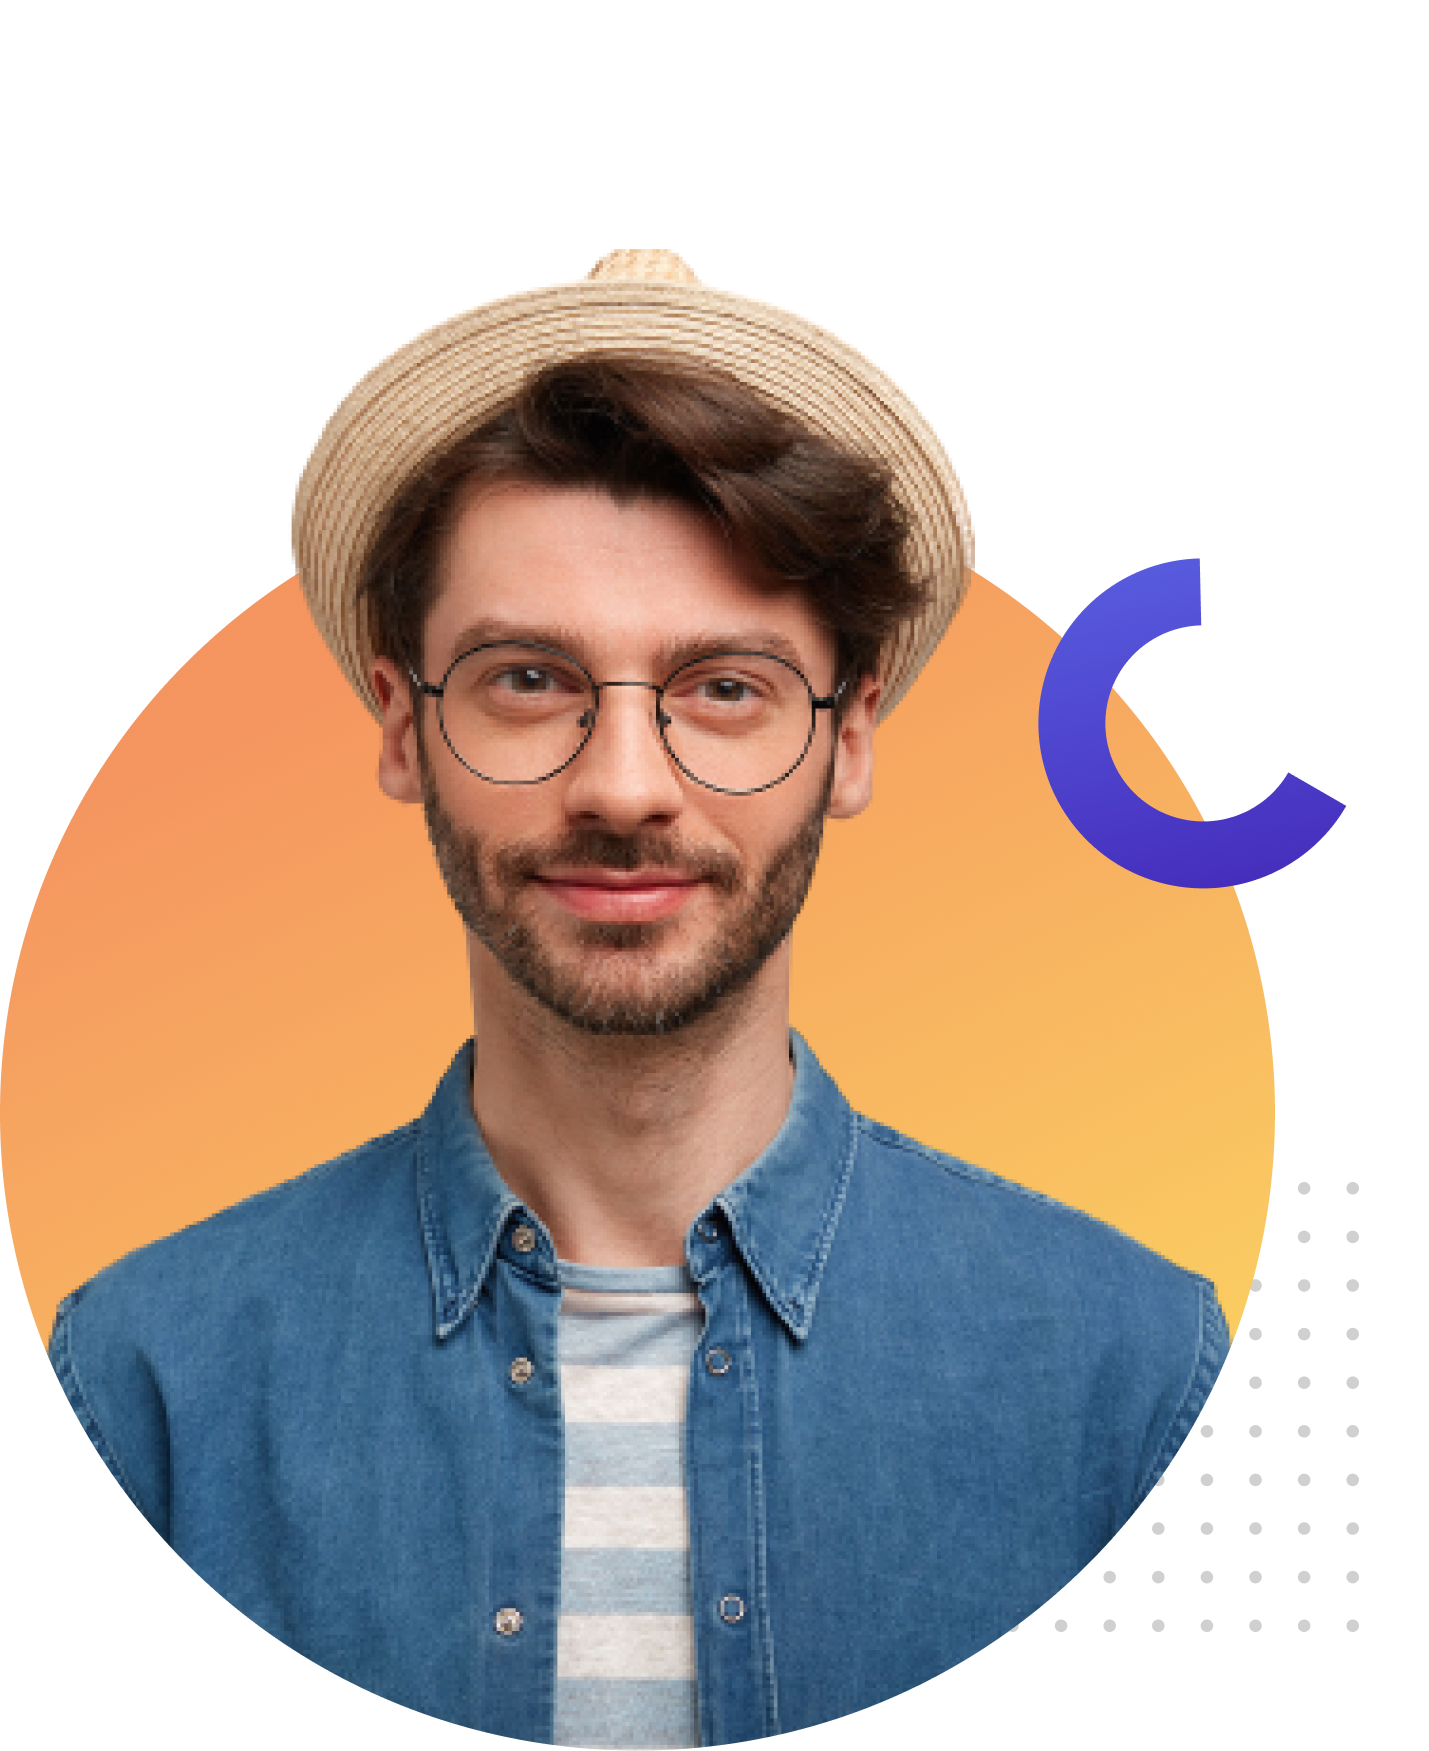
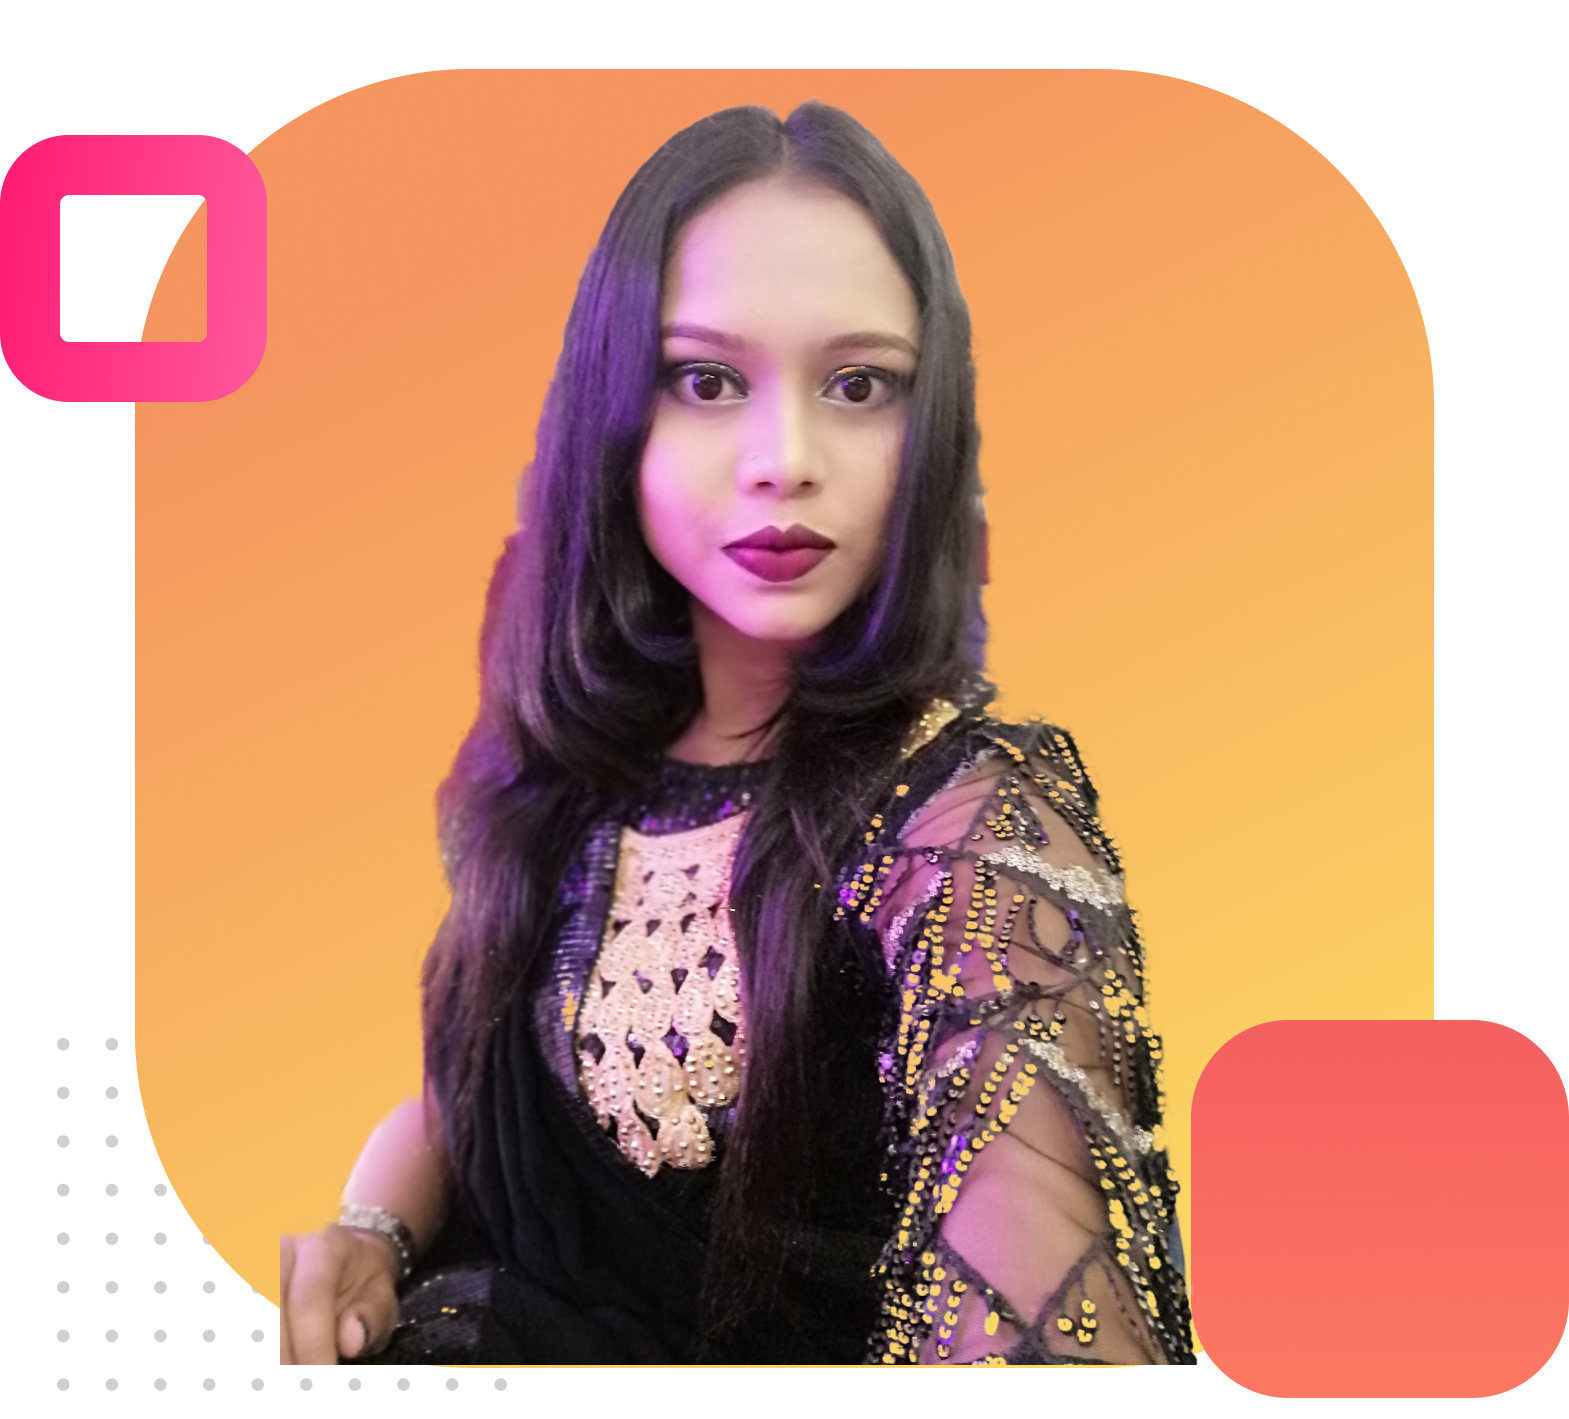
implemented full portfolio

diff --git a/index.html b/index.html
@@ -13,7 +13,7 @@
 <body>
     <!--First section start-->
     <section id="top-bar">
-        <div id="menu">
+        <div id="menu" class="text-right">
             <ul>
                 <li><a href="#">About</a></li>
                 <li><a href="#">Work</a></li>
@@ -27,50 +27,103 @@
     <!--Top-banner section start-->
     <section class="top-banner">
         <div class="half-width" id="heading">
-            <h1>HELLO, I'M <br/><span class="red-highlight">ROB DAVIDSON </span> </h1>
-            <p>A full stack allaround designer that placerat <br>in a massa consectetur</p>
+            <h1>HELLO, I'M <br/><span class="red-highlight">AIMINA ALI ELI </span> </h1>
+            <p class="gap_40">A full stack allaround designer that placerat <br>in a massa consectetur</p>
 
             <a class="link-button" target="_blank" href="https://web.programming-hero.com/">Hire Me</a>
         </div>
 
-        <div class="half-width">
-            <img src="images/pic1.png" alt="">
+        <div class="half-width text-center">
+            <img class="potrait" src="images/pic1.png" alt="">
         </div>
     </section>
 
     <!--About-area section start-->
     <section class="about-area">
         <div class="half-width">
-            <img src="images/pic2.png" alt="">
+            <img class="potrait" src="images/pic2.png" alt="">
         </div>
         <div class="half-width">
-            <h4>ABOUT</h4>
-            <p>Many times, readers will get distracted by readable text when looking at the layout of a page. Instead of using filler text that says “Insert content here,” Lorem Ipsum uses a normal distribution of letters, making it resemble standard English.</p>
-            <a class="link-button" target="_blank" href="https://www.linkedin.com/company/programminghero/">Download CV</a>
+            <h1>ABOUT</h4>
+                <p class="gap_40">Many times, readers will get distracted by readable text when looking at the layout of a page. Instead of using filler text that says “Insert content here,” Lorem Ipsum uses a normal distribution of letters, making it resemble standard
+                    English.
+                </p>
+                <a class="link-button" target="_blank" href="https://www.linkedin.com/company/programminghero/">
+                    <img src="icons/download_icon.png" width="16" /> Download CV
+                </a>
         </div>
     </section>
 
     <!--Lastset-area section start-->
     <section id="lastet-area">
         <div class="center">
-            <h3><span class="red-highlight">LASTET</span> WORKING PROJECT</h3>
+            <h1><span class="red-highlight">LATEST</span> WORKING PROJECT</h3>
         </div>
         <div id="portfolio">
             <div class="project">
-                <img id="gym-img" src="images/image 3.png">
+                <img class="project-img" src="images/image 3.png">
                 <h5>Power-x-gym (gym website)</h5>
                 <p>lorem ipsum is simply dummy text to the printing and typestring industry</p>
             </div>
             <div class="project">
-                <img id="gym-img" src="images/image 4.png">
+                <img class="project-img" src="images/image 4.png">
                 <h5>Creative Agency</h5>
                 <p>lorem ipsum is simply dummy text to the printing and typestring industry</p>
             </div>
             <div class="project">
-                <img id="gym-img" src="images/image 5.png">
+                <img class="project-img" src="images/image 5.png">
                 <h5>Hard Rock Music</h5>
                 <p>lorem ipsum is simply dummy text to the printing and typestring industry</p>
             </div>
+        </div>
+    </section>
+
+    <section id="services-area">
+        <div class="center">
+            <h1><span class="red-highlight">MY</span> SERVICES</h3>
+        </div>
+        <div id="services">
+            <div class="service text-center">
+                <img class="project-img" src="icons/website-design.png">
+                <h5>
+                    <a href="#">Website Design</a>
+                </h5>
+            </div>
+            <div class="service text-center">
+                <img class="project-img" src="icons/website-development.png">
+                <h5><a href="#">Web Development</a></h5>
+            </div>
+            <div class="service text-center">
+                <img class="project-img" src="icons/ecommerce-solution.png">
+                <h5><a href="#">eCommerce Solution</a></h5>
+            </div>
+            <div class="service text-center">
+                <img class="project-img" src="icons/logo-design.png">
+                <h5><a href="#">Logo Design</a></h5>
+            </div>
+        </div>
+    </section>
+
+    <!--Footer section start-->
+    <section>
+        <div id="blue-bg">
+            <div id="work-inq">
+                <h1>WORK INQUIRY</h1>
+            </div>
+            <div id="chat-btn">
+                <a class="link-button" target="_blank" href="https://web.programming-hero.com/">Let's Chat</a>
+            </div>
+
+        </div>
+        <div id="footer" class="text-center">
+            <h6>STAY CONNECTED</h6>
+            <h5>eli.aimina@gmail.com</h5>
+            <div id="icons">
+                <img src="icons/image 6.png">
+                <img src="icons/image 7.png">
+                <img src="icons/image 8.png">
+            </div>
+
         </div>
 
     </section>

diff --git a/style.css b/style.css
@@ -4,13 +4,31 @@ body {
     background-color: #fdfbfb;
 }
 
+.text-left {
+    text-align: left;
+}
+
+.text-right {
+    text-align: right;
+}
+
+.text-center {
+    text-align: center;
+}
+
+section {
+    padding: 0 12%;
+    margin-bottom: 80px;
+}
+
 #top-bar {
     height: 50px;
 }
 
 #menu {
-    width: 30%;
+    width: 100%;
     float: right;
+    font-size: 18px;
 }
 
 li {
@@ -28,8 +46,9 @@ a {
 h1 {
     font-size: 50px;
     font-family: 'Oswald', sans-serif;
-    color: #110c16;
+    color: #060e48;
     margin: 0px;
+    line-height: 60px;
 }
 
 h4 {
@@ -44,63 +63,160 @@ p {
     color: dimgray;
 }
 
+.gap_40 {
+    margin-bottom: 40px;
+}
+
 .red-highlight {
     color: #ec5325;
 }
 
 .top-banner,
 .about-area {
-    height: 500px;
+    height: 350px;
 }
 
 .half-width {
-    width: 40%;
+    width: 50%;
+    position: relative;
     float: left;
-    margin-left: 5%;
-    padding-left: 2%;
 }
 
 .link-button {
     text-decoration: none;
-    background-image: linear-gradient(45deg, lightSalmon, tomato);
-    padding: 10px 20px;
+    padding: 13px 27px;
     border-radius: 5px;
     color: white;
     font-weight: 700;
+    font-size: 18px;
+    margin-top: 20px;
+    background-color: #eb4a4a;
 }
 
-.half-width img {
-    width: 60%;
-    margin-bottom: 60px;
+.potrait {
+    width: 400px;
+    margin-top: -20px;
 }
 
 #lastet-area {
-    background-color: #e2d9d9c5;
+    background-color: #eff7f9c5;
     height: 600px;
+    margin-bottom: 0;
 }
 
 .center {
-    padding: 10px;
+    padding: 60px;
     text-align: center;
     font-size: 30px;
 }
 
-#portfolio {
-    width: 80%;
+#portfolio,
+#services {
+    width: 100%;
+    height: 500px;
     margin: 0 auto;
     text-align: center;
 }
 
 .project {
-    width: 30%;
-    margin-right: 30px;
+    width: 28%;
+    margin-right: 20px;
     float: left;
     border-radius: 10px;
     background-color: #ffffff;
-    text-align: center
+    text-align: left;
+    padding: 0 10px;
+    box-shadow: 0px 0px 20px #dcd8d8;
 }
 
-#gym-img {
-    width: 90%;
-    margin: 15px;
+.project-img {
+    width: 100%;
+    margin: 10px 0;
+}
+
+.project h5 {
+    font-size: 18px;
+    margin: 0;
+    padding: 0;
+}
+
+.project p {
+    font-size: 13px;
+}
+
+#services-area {
+    background-color: #ffffff;
+}
+
+#services {
+    height: 300px;
+}
+
+.service {
+    width: 23%;
+    margin-right: 16px;
+    float: left;
+    border-radius: 10px;
+    background-color: #f5f6f7;
+    padding: 10px 0px;
+}
+
+.service img {
+    width: 150px;
+}
+
+.service h5 {
+    margin: 10px 0;
+    font-weight: bold;
+    font-size: 18px;
+}
+
+.service a {
+    color: #1584b7;
+}
+
+#blue-bg {
+    width: 900px;
+    height: 224px;
+    background-image: url('images/bluebg.png');
+    background-repeat: no-repeat;
+    margin: 0 auto;
+}
+
+#work-inq {
+    width: 40%;
+    float: left;
+    margin: 76px 0 0 76px;
+}
+
+#work-inq h1 {
+    color: #ffffff;
+}
+
+#chat-btn {
+    width: 40%;
+    float: right;
+    margin: 95px 76px 0 0;
+    text-align: right;
+}
+
+#footer h6 {
+    font-size: 20px;
+    font-weight: 700;
+    margin-bottom: 0;
+    color: #7b7a7a;
+    font-family: 'Oswald', sans-serif;
+}
+
+#footer h5 {
+    font-size: 28px;
+    font-weight: 700;
+    color: #4a4a4a;
+    margin-top: 10px;
+    margin-bottom: 10px;
+}
+
+#footer #icons img {
+    width: 48px;
+    margin-left: 6px;
 }
